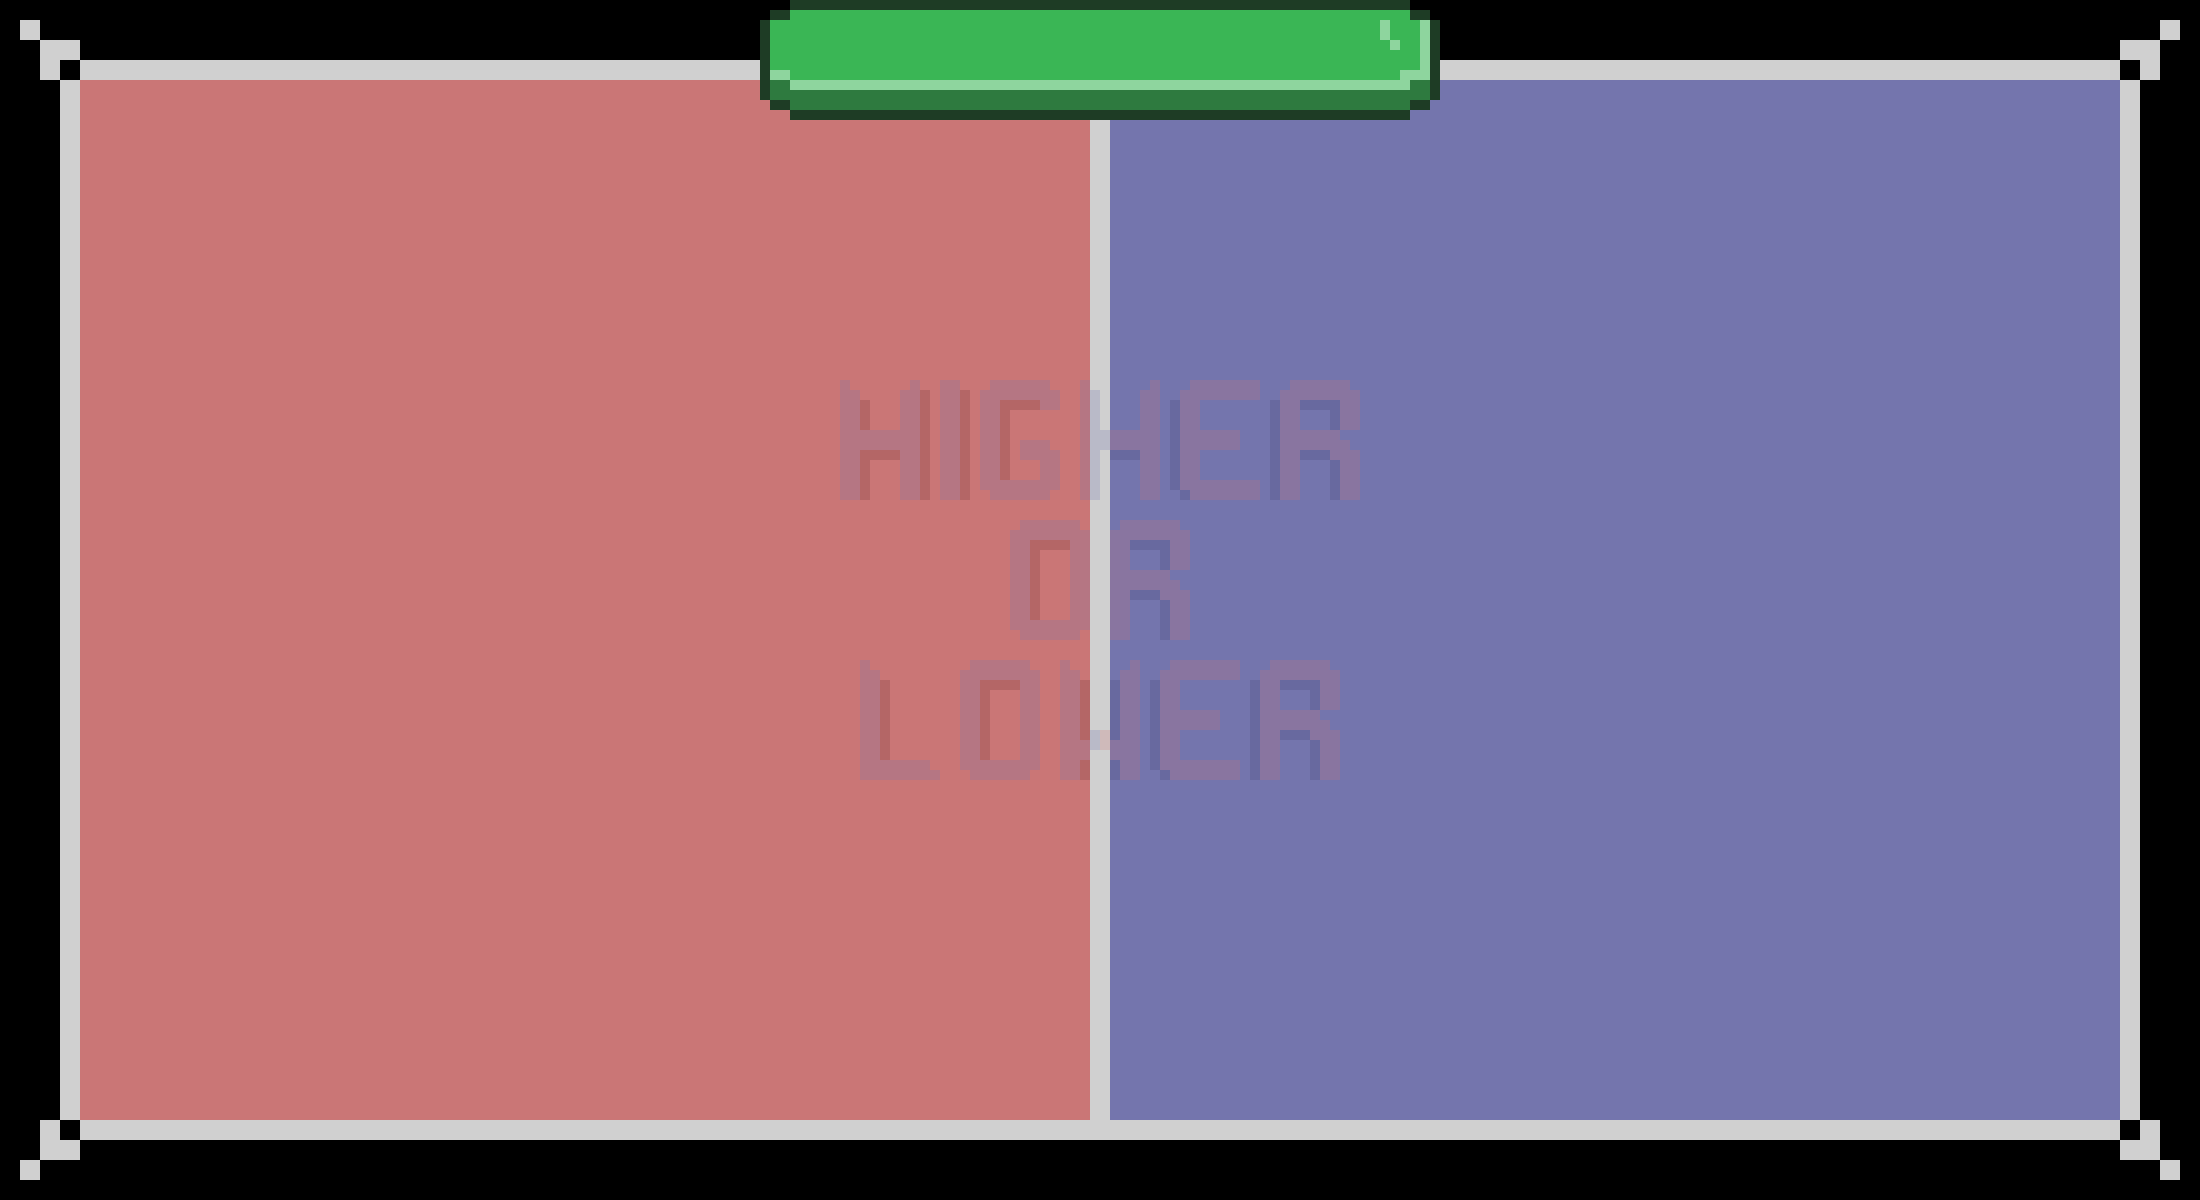
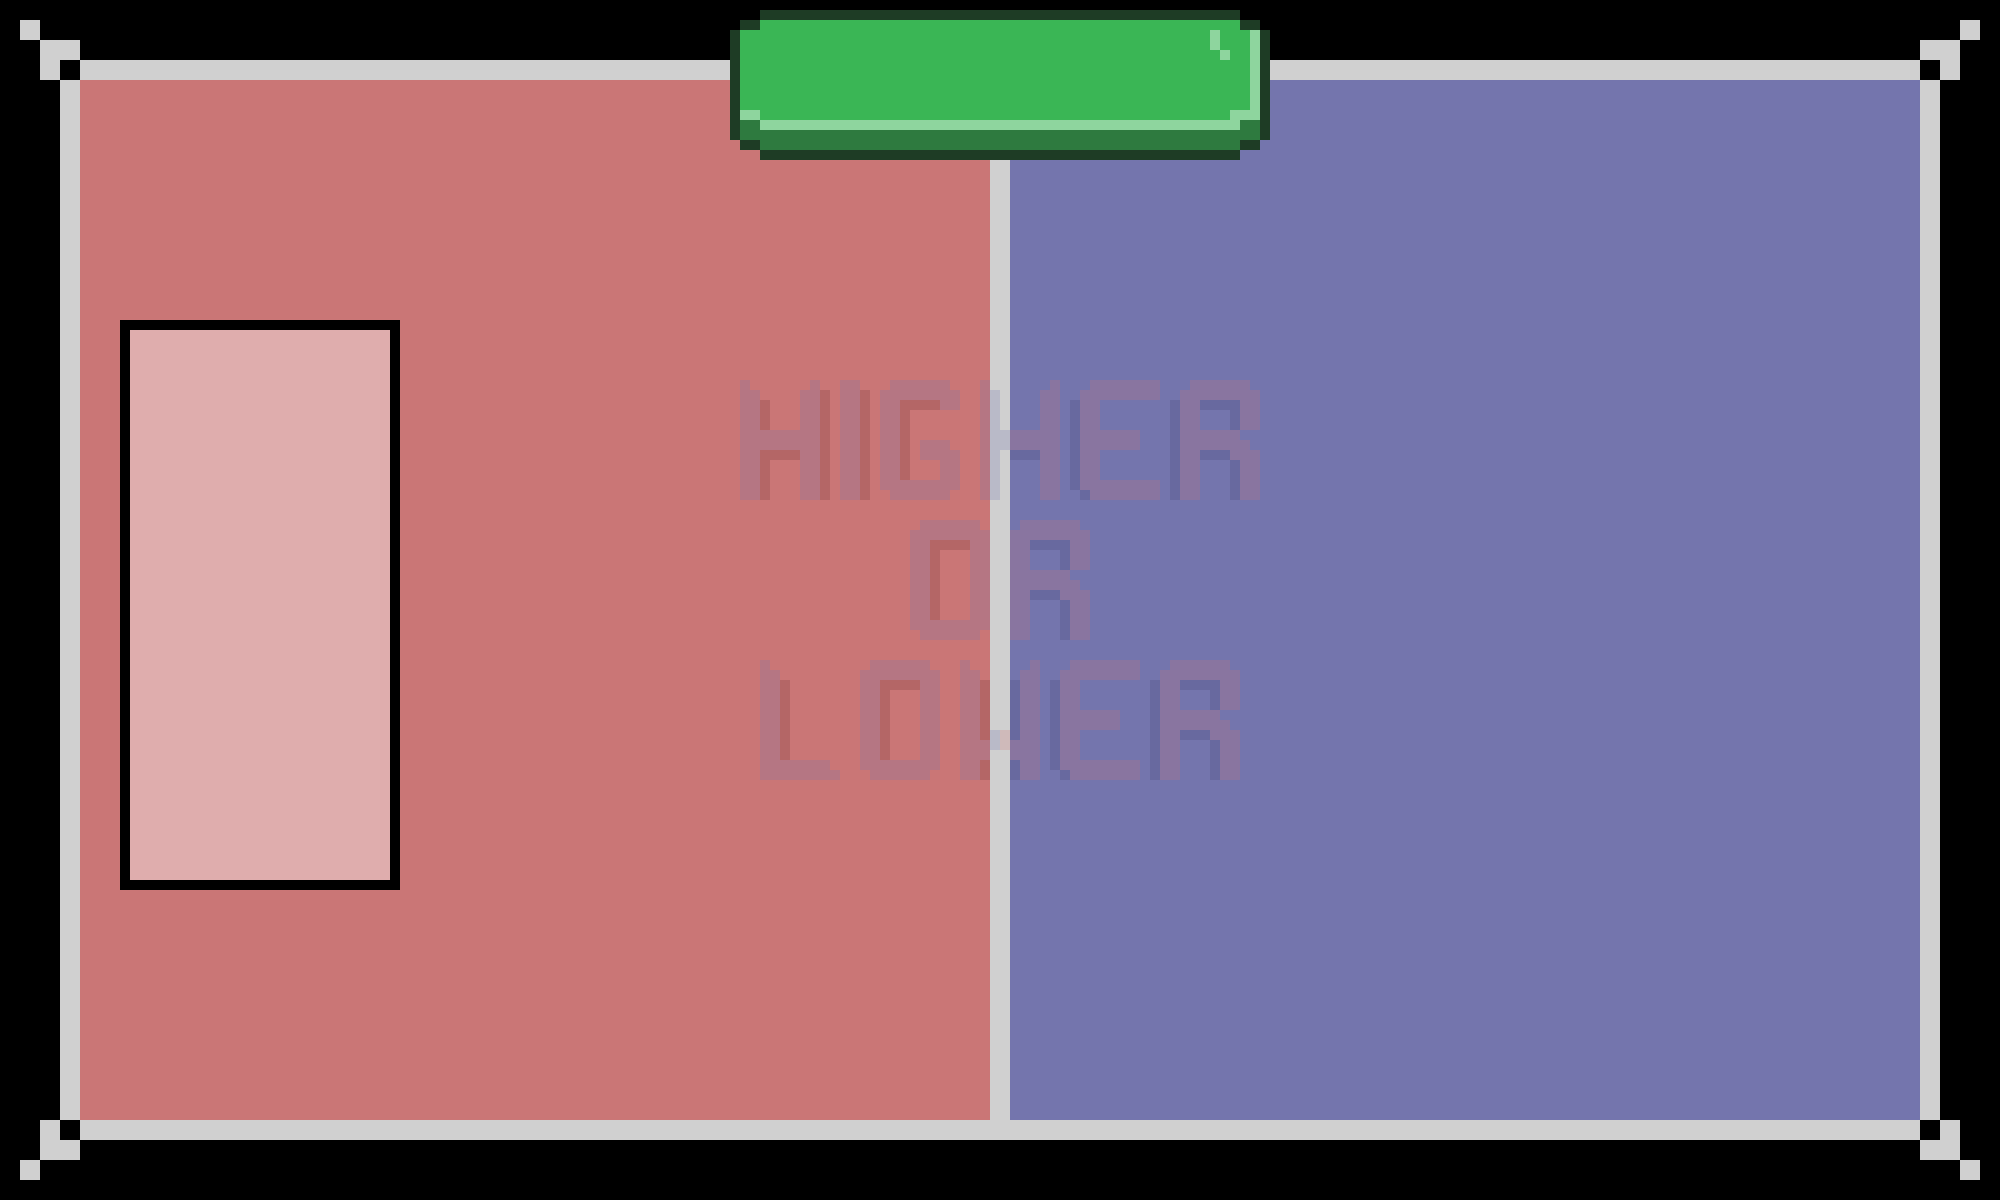
Higher or Lower: game over logic, best score and leaderboard

diff --git a/lib/routes/Game/higher_or_lower.dart b/lib/routes/Game/higher_or_lower.dart
@@ -1,22 +1,17 @@
 import 'dart:convert';
 import 'dart:math';
-import 'package:demo_todo_with_flutter/routes/Game/higher_or_lower.dart';
-import 'package:demo_todo_with_flutter/services/auth.dart';
 import 'package:flutter/material.dart';
 import 'package:flutter/services.dart';
 import 'package:just_audio/just_audio.dart';
-import 'package:flutter_animate/flutter_animate.dart';
-import 'package:lottie/lottie.dart';
 import '../Homepage.dart';
 import '/services/CustomButton.dart';
 import 'Alcohol.dart';
+import '../../services/auth.dart';
 
-//loads the CSV-formatted alcohol data from the alcohols.txt info file and returns a List<Alcohol>.
 Future<List<Alcohol>> loadAlcohols() async {
   final rawData = await rootBundle.loadString('assets/infos/alcohols.txt');
   final lines = LineSplitter.split(rawData).toList();
 
-  //convert valid lines into Alcohol objects
   return lines
       .where((line) {
     final parts = line.split(',').map((part) => part.trim()).toList();
@@ -42,20 +37,20 @@ class HigherOrLower extends StatefulWidget {
   _HigherOrLowerState createState() => _HigherOrLowerState();
 }
 
-class _HigherOrLowerState extends State<HigherOrLower>
-    with TickerProviderStateMixin {
+class _HigherOrLowerState extends State<HigherOrLower> with TickerProviderStateMixin {
   final AudioPlayer _audioPlayer = AudioPlayer();
   final authService = AuthService();
-
-  bool _isMuted = false;
-  bool _isWindowOpen = false;
-
-  //Game state
   final Random _random = Random();
+
   List<Alcohol> allAlcohols = [];
   late Alcohol leftAlcohol;
   late Alcohol rightAlcohol;
+
+  bool _isMuted = false;
+  bool _isGameOver = false;
+
   int score = 0;
+  int bestScore = 0;
 
   @override
   void initState() {
@@ -66,7 +61,6 @@ class _HigherOrLowerState extends State<HigherOrLower>
       _playMusic();
     }
 
-    //Load alcohol data and then initialize the first round
     loadAlcohols().then((alcohols) {
       setState(() {
         allAlcohols = alcohols;
@@ -96,14 +90,12 @@ class _HigherOrLowerState extends State<HigherOrLower>
     Navigator.pop(context);
   }
 
-  //Initialize the first round by choosing a left alcohol and then a different right alcohol
   void _initializeRound() {
     if (allAlcohols.isEmpty) return;
     leftAlcohol = allAlcohols[_random.nextInt(allAlcohols.length)];
     _updateRound();
   }
 
-  //update the round: pick a new right alcohol that differs from the current left alcohol
   void _updateRound() {
     if (allAlcohols.isEmpty) return;
     do {
@@ -111,25 +103,28 @@ class _HigherOrLowerState extends State<HigherOrLower>
     } while (rightAlcohol.name == leftAlcohol.name);
   }
 
-  //compare the ABV of the two alcohols based on the player's guess.
   void _checkGuess(String guess) {
     bool isRightHigher = rightAlcohol.abv > leftAlcohol.abv;
     bool isGuessCorrect =
-        (guess == "up" && isRightHigher) || (guess == "down" && !isRightHigher) || (rightAlcohol.abv == leftAlcohol.abv);
+        (guess == "up" && isRightHigher) || (guess == "down" && !isRightHigher);
 
     setState(() {
       if (isGuessCorrect) {
         score++;
+        if (score > bestScore) bestScore = score;
+        leftAlcohol = rightAlcohol;
+        _updateRound();
       } else {
-        score--;
+        _isGameOver = true;
       }
-      //OUTPUT DEBUT (TO REMOVE)
-      print("Guess: $guess | Left ABV: ${leftAlcohol.abv}, Right ABV: ${rightAlcohol.abv} | Score: $score");
+    });
+  }
 
-      //shift the right alcohol to the left
-      leftAlcohol = rightAlcohol;
-      //pick a new right alcohol.
-      _updateRound();
+  void _playAgain() {
+    setState(() {
+      _isGameOver = false;
+      score = 0;
+      _initializeRound();
     });
   }
 
@@ -142,10 +137,9 @@ class _HigherOrLowerState extends State<HigherOrLower>
   @override
   Widget build(BuildContext context) {
     final screenHeight = MediaQuery.of(context).size.height;
-    final screenWidth  = MediaQuery.of(context).size.width;
+    final screenWidth = MediaQuery.of(context).size.width;
     final groundHeight = screenHeight * 0.5;
 
-    //show a loading indicator until the alcohol data has loaded.
     if (allAlcohols.isEmpty) {
       return const Scaffold(
         body: Center(child: CircularProgressIndicator()),
@@ -153,40 +147,119 @@ class _HigherOrLowerState extends State<HigherOrLower>
     }
 
     return Scaffold(
-      body: Column(
+      body: Stack(
+        alignment: Alignment.center,
         children: [
-          _buildTopBar(),
-          Expanded(
-            child: SizedBox.expand(
-              child: Stack(
-                alignment: Alignment.center,
-                children: [
-                  _buildBackground(screenWidth, screenHeight),
-                  _buildAlcoholDisplays(screenWidth, screenHeight),
-                  _buildGameButton(
-                    bottom: groundHeight * 0.95,
-                    right: screenWidth * 0.05,
-                    text: "↑",
-                    onPressed: () => _checkGuess("up"),
-                  ),
-                  _buildGameButton(
-                    bottom: groundHeight * 0.75,
-                    right: screenWidth * 0.05,
-                    text: "↓",
-                    onPressed: () => _checkGuess("down"),
-                  ),
-                  Positioned(
-                    top: screenHeight * 0.02,
-                    child: Text(
-                      "Score: $score",
-                      style: const TextStyle(
-                        fontSize: 24,
-                        fontFamily: 'RetroGaming',
-                        color: Colors.white,
+          Column(
+            children: [
+              _buildTopBar(),
+              Expanded(
+                child: SizedBox.expand(
+                  child: Stack(
+                    alignment: Alignment.center,
+                    children: [
+                      _buildBackground(screenWidth, screenHeight),
+                      _buildAlcoholDisplays(screenWidth, screenHeight),
+                      if (!_isGameOver) ...[
+                        _buildGameButton(
+                          bottom: groundHeight * 0.95,
+                          right: screenWidth * 0.05,
+                          text: "↑",
+                          onPressed: () => _checkGuess("up"),
+                        ),
+                        _buildGameButton(
+                          bottom: groundHeight * 0.75,
+                          right: screenWidth * 0.05,
+                          text: "↓",
+                          onPressed: () => _checkGuess("down"),
+                        ),
+                      ],
+                      Positioned(
+                        top: screenHeight * 0.02,
+                        child: Text(
+                          "Score: $score\nBest: $bestScore",
+                          textAlign: TextAlign.center,
+                          style: const TextStyle(
+                            fontSize: 22,
+                            fontFamily: 'RetroGaming',
+                            color: Colors.white,
+                          ),
+                        ),
                       ),
-                    ),
+                      Positioned(
+                        top: screenHeight * 0.26,
+                        left: screenWidth * 0.083,
+                        child: Text(
+                          "Leaderboard",
+                          style: const TextStyle(
+                            fontSize: 22,
+                            fontFamily: 'RetroGaming',
+                            color: Colors.black,
+                          ),
+                        ),
+                      ),
+                    ],
                   ),
-                ],
+                ),
+              ),
+            ],
+          ),
+          if (_isGameOver) _buildGameOverBox(screenWidth, screenHeight),
+        ],
+      ),
+    );
+  }
+
+  Widget _buildGameOverBox(double screenWidth, double screenHeight) {
+    return Container(
+      width: screenWidth * 0.3,
+      height: screenHeight * 0.3,
+      decoration: const BoxDecoration(
+        image: DecorationImage(
+          image: AssetImage('assets/higher_or_lower/game_over_box.png'),
+          fit: BoxFit.fill,
+        ),
+      ),
+      child: Column(
+        mainAxisAlignment: MainAxisAlignment.center,
+        children: [
+          const SizedBox(height: 60),
+          Text(
+            "Score: $score\nBest: $bestScore",
+            textAlign: TextAlign.center,
+            style: const TextStyle(
+              fontSize: 20,
+              fontFamily: 'RetroGaming',
+              color: Colors.white,
+            ),
+          ),
+          const SizedBox(height: 10),
+          GestureDetector(
+            onTap: _playAgain,
+            child: const MouseRegion(
+              cursor: SystemMouseCursors.click,
+              child: Text(
+                "PLAY AGAIN",
+                style: TextStyle(
+                  fontSize: 22,
+                  fontFamily: 'RetroGaming',
+                  color: Colors.red,
+                ),
+              ),
+            ),
+          ),
+          const SizedBox(height: 10),
+          GestureDetector(
+            onTap: _goBackToHomePage,
+            child: const MouseRegion(
+              cursor: SystemMouseCursors.click,
+              child: Text(
+                "RETURN TO HOME",
+                style: TextStyle(
+                  fontSize: 22,
+                  fontFamily: 'RetroGaming',
+                  color: Colors.red,
+                ),
               ),
             ),
           ),
@@ -195,28 +268,20 @@ class _HigherOrLowerState extends State<HigherOrLower>
     );
   }
 
-  // ------------------------- Widget Builders -------------------------
-
-  ///builds a custom game button (used for up and down buttons in our case)
   Widget _buildGameButton({
     double? left,
     double? right,
     required double bottom,
     required String text,
     required VoidCallback onPressed,
-
   }) {
     return Positioned(
       bottom: bottom,
       left: left,
       right: right,
-
-
       child: CustomButton(
         text: text,
         imagePath: 'assets/images/buttons/games_button.png',
-
-
         onPressed: onPressed,
         textAlignment: Alignment.center,
         textStyle: const TextStyle(
@@ -226,12 +291,10 @@ class _HigherOrLowerState extends State<HigherOrLower>
           fontWeight: FontWeight.bold,
         ),
         textPadding: const EdgeInsets.only(bottom: 23),
-
       ),
     );
   }
 
-  /// Displays the current pair of alcohol objects.
   Widget _buildAlcoholDisplays(double screenWidth, double screenHeight) {
     return Positioned(
       top: screenHeight * 0.3,
@@ -241,14 +304,12 @@ class _HigherOrLowerState extends State<HigherOrLower>
         mainAxisAlignment: MainAxisAlignment.spaceBetween,
         children: [
           _buildAlcoholDisplay(leftAlcohol),
-          _buildAlcoholDisplay(rightAlcohol, hideAbv: true), // Hide ABV for right one
+          _buildAlcoholDisplay(rightAlcohol, hideAbv: true),
         ],
       ),
     );
   }
 
-
-  /// Displays an individual alcohol's image, name, and ABV.
   Widget _buildAlcoholDisplay(Alcohol alcohol, {bool hideAbv = false}) {
     return Column(
       children: [
@@ -274,8 +335,6 @@ class _HigherOrLowerState extends State<HigherOrLower>
     );
   }
 
-
-  /// Builds the game background.
   Widget _buildBackground(double screenWidth, double screenHeight) {
     return Positioned.fill(
       child: Image.asset(
@@ -287,7 +346,6 @@ class _HigherOrLowerState extends State<HigherOrLower>
     );
   }
 
-  /// Builds the top bar with logout and mute buttons.
   Widget _buildTopBar() {
     return Padding(
       padding: const EdgeInsets.symmetric(horizontal: 10, vertical: 10),
